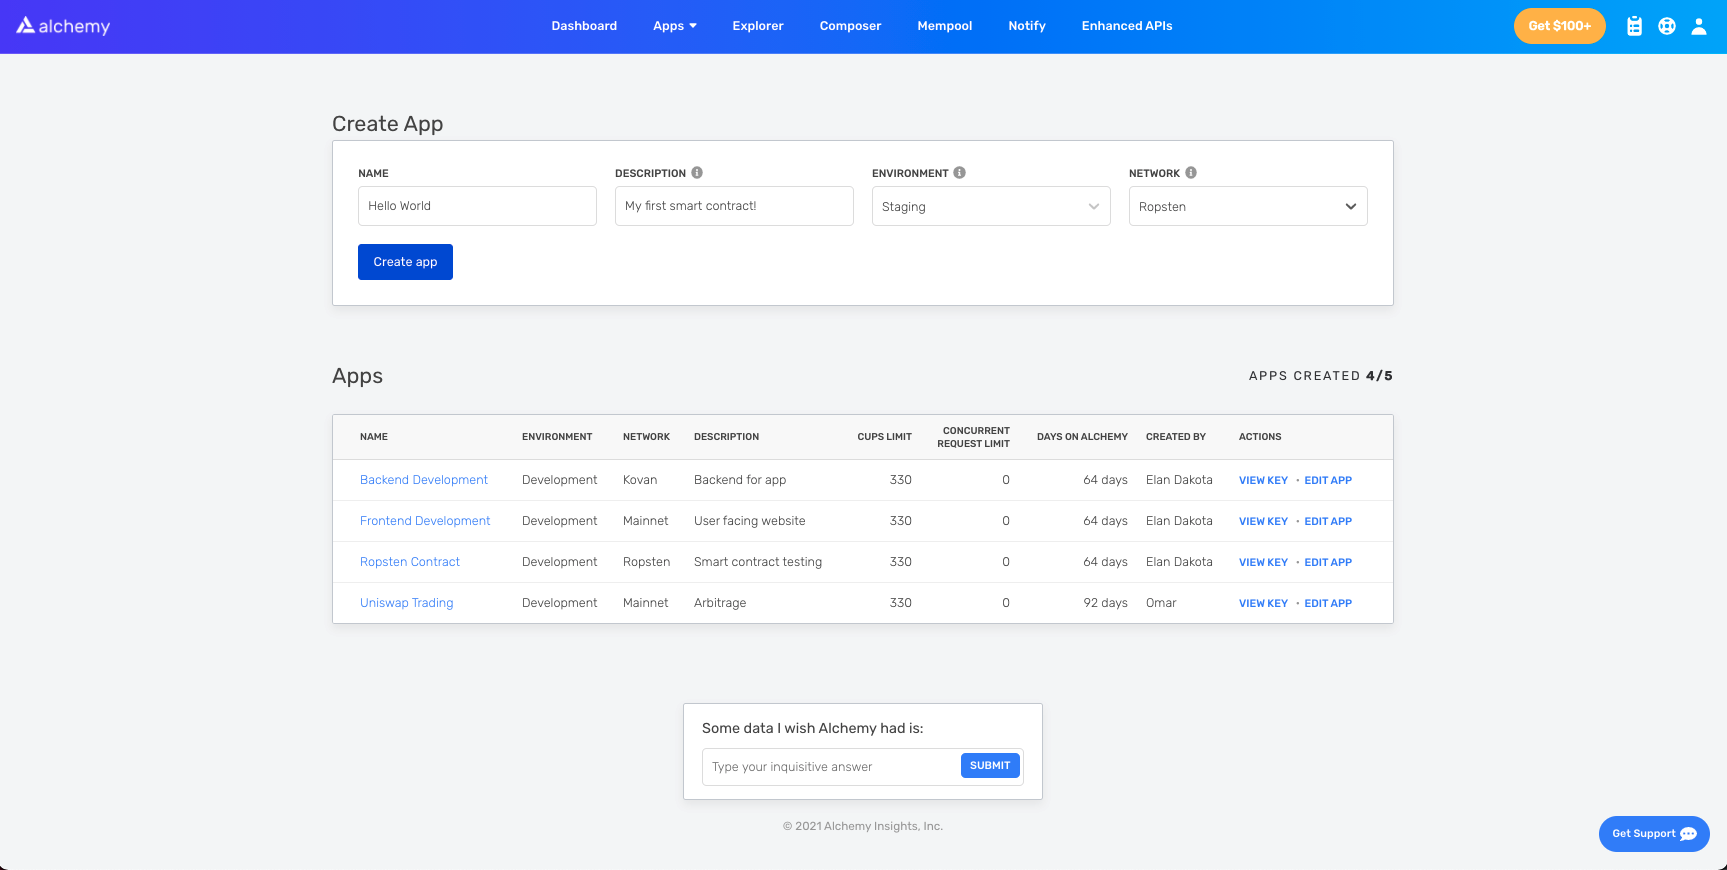
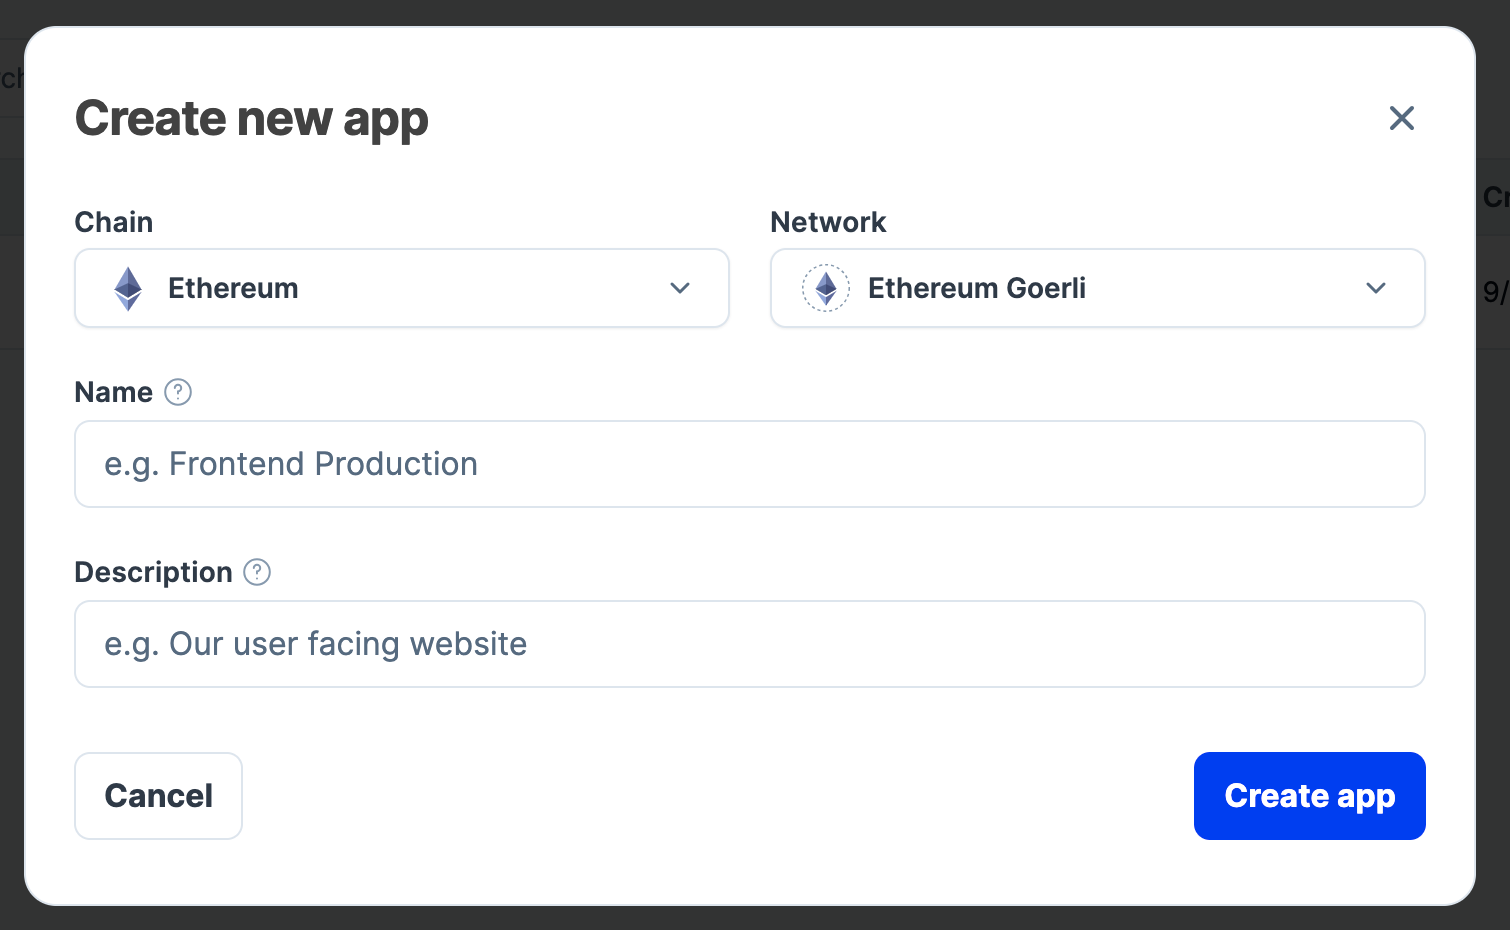
update images

diff --git a/4-class/exercise/hello-world-fs.md b/4-class/exercise/hello-world-fs.md
@@ -14,11 +14,15 @@ There are many ways to make requests to the Ethereum chain. For simplicity, we'l
 
 Once you've created an Alchemy account, you can generate an API key by creating an app. This will allow you to make requests to the **Goerli testnet**. If you're not familiar with testnets you can [read Alchemy's guide to choosing a network](https://docs.alchemyapi.io/guides/choosing-a-network).
 
-On the Alchemy dashboard, find the **Apps** dropdown in the navigation bar and click **Create App**.
+On the Alchemy dashboard, find the **Apps** icon on the left navigation bar 
 
 ![Hello world create app](./hello-world-create-app.png)
 
-Give your app the name '_Hello World_' and write a short description. Select **Staging** as your environment and **Goerli** as your network.
+Now click **Create App**.
+
+![Hello world create new app](./hello-world-create-new-app.png)
+
+Give your app the name '_Hello World_' and write a short description. Select **Ethereum** as your chain and **Ethereum Goerli** as your network.
 
 ![create app view hello world](./create-app-view-hello-world.png)
 
@@ -32,7 +36,11 @@ You need an Ethereum account to send and receive transactions. We'll use MetaMas
 
 You can download and create a MetaMask account for free [here](https://metamask.io/download.html). When you are creating an account, or if you already have an account, make sure to switch over to the Goerli Test Network” in the upper right (so that we’re not dealing with real money).
 
-![](./metamask-goerli-example.png)
+Click on the **Network** dropdown
+![](metamask-network.png)
+
+Switch **Network** to Goerli
+![](metamask-switch-network.png)
 
 ### Step 4: Add ether from a Faucet {#step-4-add-ether-from-a-faucet}
 
@@ -165,11 +173,11 @@ _Note: Be sure to read the comments to understand what this contract does._
 
 ```
 // Specifies the version of Solidity, using semantic versioning.
-// Learn more: https://solidity.readthedocs.io/en/v0.5.10/layout-of-source-files.html#pragma
+// Learn more: https://docs.soliditylang.org/en/latest/layout-of-source-files.html#pragmas
 pragma solidity >=0.7.3;
 
 // Defines a contract named `HelloWorld`.
-// A contract is a collection of functions and data (its state). Once deployed, a contract resides at a specific address on the Ethereum blockchain. Learn more: https://solidity.readthedocs.io/en/v0.5.10/structure-of-a-contract.html
+// A contract is a collection of functions and data (its state). Once deployed, a contract resides at a specific address on the Ethereum blockchain. Learn more: https://docs.soliditylang.org/en/latest/structure-of-a-contract.html
 contract HelloWorld {
 
    //Emitted when update function is called
@@ -181,7 +189,7 @@ contract HelloWorld {
    string public message;
 
    // Similar to many class-based object-oriented languages, a constructor is a special function that is only executed upon contract creation.
-   // Constructors are used to initialize the contract's data. Learn more:https://solidity.readthedocs.io/en/v0.5.10/contracts.html#constructors
+   // Constructors are used to initialize the contract's data. Learn more:https://docs.soliditylang.org/en/latest/contracts.html#constructor
    constructor(string memory initMessage) {
 
       // Accepts a string argument `initMessage` and sets the value into the contract's `message` storage variable).
@@ -222,7 +230,7 @@ Do not name it `process.env` or `.env-custom` or anything else.
 - Follow [these instructions](https://metamask.zendesk.com/hc/en-us/articles/360015289632-How-to-Export-an-Account-Private-Key) to export your private key
 - See below to get HTTP Alchemy API URL
 
-![](./get-alchemy-api-key.gif)
+![](./get-alchemy-api-key.png)
 
 Your `.env` should look like this:
 
